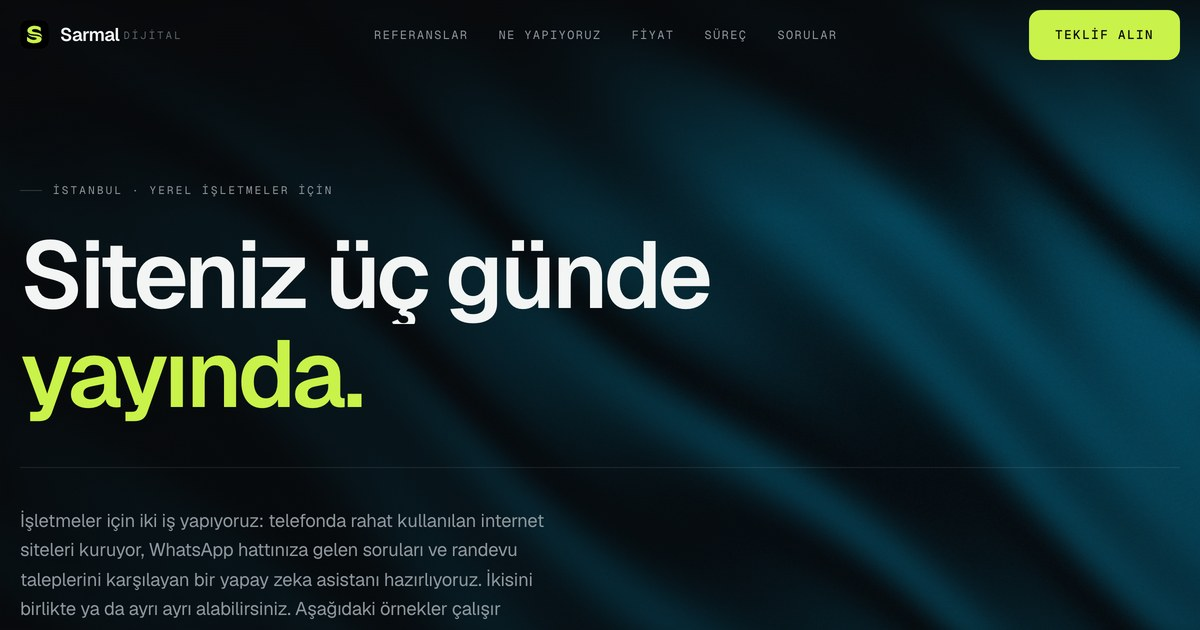
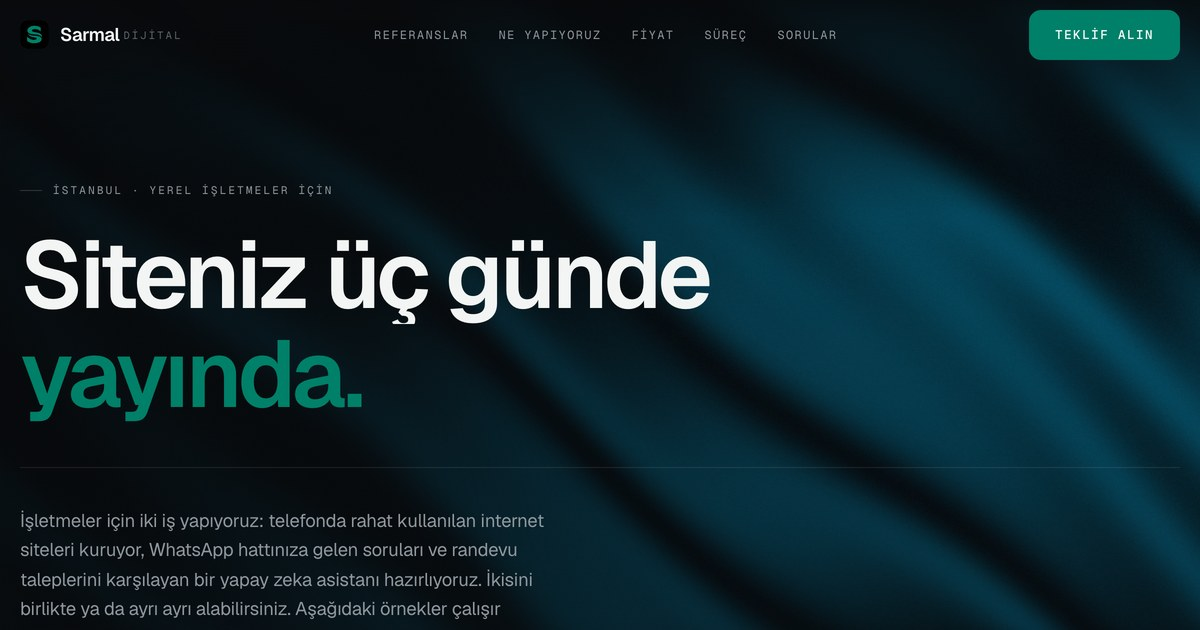
Marka rengi WhatsApp koyu yesiline cevrildi (#c9f24a -> #008069)
Asit yesili siteden tamamen kalkti: vurgu rengi, kisik ton, 12 yari
saydam kullanim, gomulu logo, logo.svg, logo-180.png ve og-kapak.jpg.

Dolu dugmelerin yazisi siyahtan beyaza dondu; koyu yesil zeminde siyah
yazi 2.5:1 kaliyordu, beyazla 4.89:1.

126 test gecti, 0 kaldi.

Claude-Session: https://claude.ai/code/session_01R7czcpEb5PSx5wUoPWUQCz

diff --git a/index.html b/index.html
@@ -35,8 +35,9 @@
   --sonuk:#8d979d;
   --cok-sonuk:#5c666c;          /* yalnizca dekoratif etiketler */
   --sonuk2:#7a848a;             /* bilgi tasiyan kucuk metin: koyu zeminde 4.5:1 ustu */
-  --vurgu:#c9f24a;
-  --vurgu-kis:#8fb327;
+  --vurgu:#008069;          /* WhatsApp ust cubuk yesili */
+  --dolu-yazi:#ffffff;      /* koyu yesil dolu dugme uzerindeki yazi */
+  --vurgu-kis:#005C4B;
   --w:1220px;
   /* Kose olcegi. Apple mantigi: oge buyudukce kose yumusar.
      Ic ice kural: ic ogenin yaricapi = dis yaricap - aradaki bosluk. */
@@ -123,11 +124,11 @@ section{padding:104px 0; position:relative}
 .dugme{
   display:inline-flex; align-items:center; gap:10px; padding:14px 25px;
   font-family:var(--mono); font-size:.78rem; letter-spacing:.12em; text-transform:uppercase;
-  border:1px solid var(--vurgu); background:var(--vurgu); color:#0a0c07; font-weight:500;
+  border:1px solid var(--vurgu); background:var(--vurgu); color:var(--dolu-yazi); font-weight:500;
   border-radius:var(--r-sm);
   transition:transform var(--sure-orta) var(--egri), box-shadow var(--sure-orta), background var(--sure-orta);
 }
-.dugme:hover{transform:translateY(calc(var(--hareket-az) * -1)); box-shadow:0 10px 32px rgba(201,242,74,.24)}
+.dugme:hover{transform:translateY(calc(var(--hareket-az) * -1)); box-shadow:0 10px 32px rgba(0,128,105,.24)}
 .dugme.bos{background:transparent; color:var(--metin); border-color:var(--cizgi-parlak)}
 .dugme.bos:hover{border-color:var(--vurgu); color:var(--vurgu); box-shadow:none}
 .dugme svg{transition:transform var(--sure-orta)}
@@ -351,7 +352,7 @@ header.yapisik{background:rgba(8,9,11,.86); backdrop-filter:blur(14px); border-b
   width:44px; height:44px; transform:translate(-50%,-50%);
 }
 .bilgi-dugme:hover{color:var(--vurgu); border-color:var(--vurgu); transform:scale(1.12)}
-.bilgi-dugme[aria-expanded="true"]{background:var(--vurgu); border-color:var(--vurgu); color:#0a0c07}
+.bilgi-dugme[aria-expanded="true"]{background:var(--vurgu); border-color:var(--vurgu); color:var(--dolu-yazi)}
 .bilgi-dugme:focus-visible{outline:2px solid var(--vurgu); outline-offset:3px}
 
 .bilgi-balon{
@@ -397,7 +398,7 @@ header.yapisik{background:rgba(8,9,11,.86); backdrop-filter:blur(14px); border-b
   transition:color var(--sure-hizli) var(--egri), border-color var(--sure-hizli) var(--egri),
              background var(--sure-hizli) var(--egri);
 }
-.paket-sec:hover{color:var(--vurgu); border-color:var(--vurgu); background:rgba(201,242,74,.06)}
+.paket-sec:hover{color:var(--vurgu); border-color:var(--vurgu); background:rgba(0,128,105,.06)}
 .paket-sec:focus-visible{outline:2px solid var(--vurgu); outline-offset:3px}
 .yillik{
   display:block; margin-top:7px; font-size:.7rem; letter-spacing:.02em;
@@ -443,8 +444,8 @@ header.yapisik{background:rgba(8,9,11,.86); backdrop-filter:blur(14px); border-b
 /* ---- peşinatsız vurgusu ---- */
 .pesinatsiz{
   display:grid; grid-template-columns:auto minmax(0,1fr) auto; gap:26px; align-items:center;
-  border:1px solid rgba(201,242,74,.34); border-radius:var(--r-lg);
-  background:linear-gradient(100deg, rgba(201,242,74,.11), rgba(201,242,74,.03) 46%, transparent);
+  border:1px solid rgba(0,128,105,.34); border-radius:var(--r-lg);
+  background:linear-gradient(100deg, rgba(0,128,105,.11), rgba(0,128,105,.03) 46%, transparent);
   padding:26px 30px; margin-top:40px;
   transition:transform var(--sure-yavas) var(--egri),
              box-shadow var(--sure-yavas) var(--egri),
@@ -455,13 +456,13 @@ header.yapisik{background:rgba(8,9,11,.86); backdrop-filter:blur(14px); border-b
 @media (hover: hover) and (pointer: fine){
   .pesinatsiz:hover{
     transform:translateY(calc(var(--hareket-orta) * -1));
-    border-color:rgba(201,242,74,.55);
-    background:linear-gradient(100deg, rgba(201,242,74,.16), rgba(201,242,74,.05) 46%, transparent);
+    border-color:rgba(0,128,105,.55);
+    background:linear-gradient(100deg, rgba(0,128,105,.16), rgba(0,128,105,.05) 46%, transparent);
     box-shadow:
       0 22px 46px rgba(0,0,0,.6),               /* zeminden ayıran uzak gölge */
       0 8px 18px rgba(0,0,0,.45),
-      0 0 0 1px rgba(201,242,74,.12),           /* çerçeveyi belirginleştiren hâle */
-      inset 0 1px 0 rgba(201,242,74,.16);       /* üst kenarda ince parlama */
+      0 0 0 1px rgba(0,128,105,.12),           /* çerçeveyi belirginleştiren hâle */
+      inset 0 1px 0 rgba(0,128,105,.16);       /* üst kenarda ince parlama */
   }
 }
 @media (prefers-reduced-motion: reduce){
@@ -650,7 +651,7 @@ html.js .sss-govde.acik{opacity:1}
   background-repeat:no-repeat; background-position:right 15px center; padding-right:38px;
 }
 .alan input:focus,.alan select:focus,.alan textarea:focus{
-  outline:none; border-color:var(--vurgu); box-shadow:0 0 0 3px rgba(201,242,74,.14);
+  outline:none; border-color:var(--vurgu); box-shadow:0 0 0 3px rgba(0,128,105,.14);
 }
 .alan .hata{display:none; font-size:.78rem; color:#e2685a; margin-top:7px}
 .alan.bozuk .hata{display:block}
@@ -671,7 +672,7 @@ html.js .sss-govde.acik{opacity:1}
 .form-tamam.gorun{display:block}
 .form-tamam .tik{
   width:52px; height:52px; margin:0 auto 18px; border-radius:50%;
-  background:rgba(201,242,74,.14); color:var(--vurgu); display:grid; place-items:center;
+  background:rgba(0,128,105,.14); color:var(--vurgu); display:grid; place-items:center;
 }
 .form-tamam b{display:block; font-size:1.2rem; font-weight:600; letter-spacing:-.022em; margin-bottom:9px}
 .form-tamam p{color:var(--sonuk); font-size:.92rem; margin:0 auto 22px; max-width:38ch; line-height:1.6}
@@ -804,7 +805,7 @@ body.balon-acik{overflow:hidden}
       <a class="marka" href="#">
         <svg class="im" viewBox="0 0 100 100" fill="none" aria-hidden="true">
           <rect width="100" height="100" rx="25" fill="#000" stroke="rgba(255,255,255,.10)"/>
-          <g transform="translate(20,20) scale(0.60)"><path d="M47.14,0.00 C50.30,0.09 51.42,-0.34 57.62,0.31 C63.82,0.96 62.40,0.77 67.80,2.16 C73.20,3.55 71.09,2.84 75.63,4.93 C80.17,7.01 79.95,7.16 82.93,9.12 C85.91,11.08 84.68,10.50 85.58,11.46 C86.48,12.43 85.88,6.57 85.94,12.35 C86.01,18.12 85.97,25.01 85.78,30.70 C85.59,36.40 85.31,31.33 85.31,31.33 C85.31,31.33 86.62,32.82 84.24,31.31 C81.85,29.80 82.02,29.10 77.36,26.30 C72.71,23.50 73.17,23.83 68.72,21.98 C64.27,20.12 66.65,21.00 62.54,20.12 C58.43,19.24 59.54,19.32 55.01,19.05 C50.48,18.77 50.93,18.92 47.45,19.20 C43.97,19.48 45.74,19.33 43.41,19.98 C41.09,20.63 41.42,20.58 39.69,21.38 C37.96,22.18 38.89,21.49 37.65,22.64 C36.42,23.79 36.29,23.68 35.57,25.21 C34.85,26.74 35.11,26.41 35.25,27.75 C35.40,29.08 35.28,28.56 36.05,29.67 C36.82,30.77 36.76,30.57 37.81,31.43 C38.85,32.29 37.35,31.55 39.54,32.54 C41.72,33.52 36.26,32.57 45.10,34.71 C53.95,36.84 59.41,37.38 69.03,39.64 C78.65,41.90 73.20,40.73 77.17,42.25 C81.14,43.78 79.58,43.15 82.28,44.73 C84.97,46.31 84.47,46.17 86.16,47.52 C87.84,48.88 86.71,47.80 87.88,49.25 C89.06,50.70 88.90,50.26 90.06,52.36 C91.23,54.46 91.07,54.33 91.77,56.24 C92.47,58.15 92.07,56.93 92.40,58.74 C92.72,60.55 92.74,60.17 92.86,62.27 C92.98,64.37 92.80,65.75 92.80,65.75 C92.80,65.75 92.25,65.72 92.25,65.72 C92.25,65.72 91.34,63.94 89.42,61.85 C87.50,59.75 87.99,60.37 85.85,58.74 C83.71,57.10 84.83,57.80 82.28,56.40 C79.72,55.01 80.61,55.33 77.32,54.08 C74.04,52.83 74.98,53.16 71.33,52.24 C67.68,51.31 69.91,51.74 65.15,51.00 C60.39,50.26 63.78,50.60 55.47,49.77 C47.17,48.94 45.92,49.30 37.46,48.23 C29.01,47.17 31.77,47.34 27.28,46.23 C22.80,45.12 25.30,45.74 22.52,44.54 C19.75,43.33 20.54,43.84 18.03,42.21 C15.52,40.59 15.98,40.85 14.15,39.11 C12.32,37.38 13.07,38.12 11.93,36.42 C10.80,34.73 11.12,35.24 10.38,33.47 C9.63,31.69 9.77,33.11 9.45,30.51 C9.12,27.91 8.88,28.13 9.29,24.79 C9.71,21.45 9.82,22.02 10.84,19.37 C11.86,16.72 11.49,17.82 12.70,15.96 C13.91,14.09 12.45,15.53 14.88,13.15 C17.31,10.77 18.05,10.16 20.79,8.02 C23.54,5.88 21.57,7.32 24.02,6.02 C26.47,4.72 25.03,5.13 28.97,3.70 C32.91,2.26 31.72,2.33 37.15,1.23 C42.59,0.12 44.11,0.38 47.10,0.01 C50.10,-0.36 43.98,-0.09 47.14,0.00 Z M12.42,43.78 C12.59,43.78 12.95,43.79 12.95,43.79 C12.95,43.79 15.07,46.24 16.92,48.02 C18.76,49.81 17.42,48.62 19.11,49.74 C20.79,50.86 19.84,50.51 22.52,51.76 C25.21,53.01 23.29,52.66 28.05,53.91 C32.81,55.15 30.20,54.94 38.38,55.91 C46.56,56.88 46.04,56.22 55.32,57.14 C64.59,58.06 62.42,57.65 69.30,58.99 C76.18,60.33 74.63,60.40 78.25,61.61 C81.86,62.81 79.12,61.75 81.36,63.01 C83.59,64.27 83.50,64.02 85.70,65.80 C87.89,67.59 87.22,66.83 88.68,68.95 C90.14,71.07 89.90,70.53 90.55,72.87 C91.21,75.21 91.23,73.77 90.86,76.75 C90.49,79.72 90.48,79.75 89.31,82.78 C88.15,85.81 88.88,84.42 86.96,86.85 C85.05,89.28 85.35,88.88 82.93,90.88 C80.51,92.88 81.96,91.89 78.90,93.52 C75.83,95.15 77.07,94.77 72.72,96.30 C68.36,97.83 69.19,97.60 64.38,98.62 C59.58,99.63 62.47,99.28 56.70,99.69 C50.93,100.11 51.01,100.09 45.14,100.00 C39.28,99.91 41.90,99.98 37.15,99.39 C32.41,98.79 34.17,99.20 29.32,98.00 C24.47,96.80 25.30,97.10 20.99,95.38 C16.68,93.67 17.98,94.10 14.96,92.29 C11.94,90.48 13.08,91.26 10.93,89.34 C8.77,87.42 8.92,87.50 7.79,85.89 C6.65,84.27 7.34,89.95 7.14,83.97 C6.95,77.99 7.09,71.69 7.14,65.96 C7.19,60.22 7.02,65.46 7.31,64.84 C7.59,64.23 8.08,63.91 8.08,63.91 C8.08,63.91 6.91,62.31 9.62,64.24 C12.33,66.16 12.60,67.12 17.11,70.32 C21.61,73.53 20.25,72.58 24.64,74.93 C29.02,77.29 27.43,76.60 31.74,78.18 C36.05,79.75 35.25,79.40 39.00,80.18 C42.74,80.97 41.40,80.61 44.22,80.80 C47.04,80.98 45.11,81.12 48.41,80.80 C51.70,80.47 52.52,80.27 55.20,79.71 C57.89,79.16 55.90,79.65 57.35,78.95 C58.81,78.24 58.71,78.41 60.04,77.36 C61.38,76.31 61.13,76.46 61.80,75.44 C62.47,74.43 62.14,74.72 62.29,73.98 C62.43,73.25 62.53,73.81 62.28,72.98 C62.03,72.15 62.05,72.09 61.46,71.22 C60.87,70.34 61.50,70.88 60.31,70.07 C59.12,69.27 59.83,69.40 57.51,68.52 C55.18,67.64 57.28,68.05 52.55,67.13 C47.83,66.20 46.85,66.36 41.76,65.44 C36.67,64.51 39.46,65.15 35.58,64.05 C31.70,62.94 32.43,63.27 28.82,61.74 C25.22,60.22 25.93,60.40 23.56,58.96 C21.19,57.51 23.02,58.99 20.91,56.93 C18.80,54.87 18.92,55.40 16.54,52.09 C14.17,48.79 14.23,48.40 12.99,45.91 C11.75,43.42 12.39,43.79 12.39,43.79 C12.39,43.79 12.26,43.78 12.42,43.78 Z" fill="#c9f24a"/></g>
+          <g transform="translate(20,20) scale(0.60)"><path d="M47.14,0.00 C50.30,0.09 51.42,-0.34 57.62,0.31 C63.82,0.96 62.40,0.77 67.80,2.16 C73.20,3.55 71.09,2.84 75.63,4.93 C80.17,7.01 79.95,7.16 82.93,9.12 C85.91,11.08 84.68,10.50 85.58,11.46 C86.48,12.43 85.88,6.57 85.94,12.35 C86.01,18.12 85.97,25.01 85.78,30.70 C85.59,36.40 85.31,31.33 85.31,31.33 C85.31,31.33 86.62,32.82 84.24,31.31 C81.85,29.80 82.02,29.10 77.36,26.30 C72.71,23.50 73.17,23.83 68.72,21.98 C64.27,20.12 66.65,21.00 62.54,20.12 C58.43,19.24 59.54,19.32 55.01,19.05 C50.48,18.77 50.93,18.92 47.45,19.20 C43.97,19.48 45.74,19.33 43.41,19.98 C41.09,20.63 41.42,20.58 39.69,21.38 C37.96,22.18 38.89,21.49 37.65,22.64 C36.42,23.79 36.29,23.68 35.57,25.21 C34.85,26.74 35.11,26.41 35.25,27.75 C35.40,29.08 35.28,28.56 36.05,29.67 C36.82,30.77 36.76,30.57 37.81,31.43 C38.85,32.29 37.35,31.55 39.54,32.54 C41.72,33.52 36.26,32.57 45.10,34.71 C53.95,36.84 59.41,37.38 69.03,39.64 C78.65,41.90 73.20,40.73 77.17,42.25 C81.14,43.78 79.58,43.15 82.28,44.73 C84.97,46.31 84.47,46.17 86.16,47.52 C87.84,48.88 86.71,47.80 87.88,49.25 C89.06,50.70 88.90,50.26 90.06,52.36 C91.23,54.46 91.07,54.33 91.77,56.24 C92.47,58.15 92.07,56.93 92.40,58.74 C92.72,60.55 92.74,60.17 92.86,62.27 C92.98,64.37 92.80,65.75 92.80,65.75 C92.80,65.75 92.25,65.72 92.25,65.72 C92.25,65.72 91.34,63.94 89.42,61.85 C87.50,59.75 87.99,60.37 85.85,58.74 C83.71,57.10 84.83,57.80 82.28,56.40 C79.72,55.01 80.61,55.33 77.32,54.08 C74.04,52.83 74.98,53.16 71.33,52.24 C67.68,51.31 69.91,51.74 65.15,51.00 C60.39,50.26 63.78,50.60 55.47,49.77 C47.17,48.94 45.92,49.30 37.46,48.23 C29.01,47.17 31.77,47.34 27.28,46.23 C22.80,45.12 25.30,45.74 22.52,44.54 C19.75,43.33 20.54,43.84 18.03,42.21 C15.52,40.59 15.98,40.85 14.15,39.11 C12.32,37.38 13.07,38.12 11.93,36.42 C10.80,34.73 11.12,35.24 10.38,33.47 C9.63,31.69 9.77,33.11 9.45,30.51 C9.12,27.91 8.88,28.13 9.29,24.79 C9.71,21.45 9.82,22.02 10.84,19.37 C11.86,16.72 11.49,17.82 12.70,15.96 C13.91,14.09 12.45,15.53 14.88,13.15 C17.31,10.77 18.05,10.16 20.79,8.02 C23.54,5.88 21.57,7.32 24.02,6.02 C26.47,4.72 25.03,5.13 28.97,3.70 C32.91,2.26 31.72,2.33 37.15,1.23 C42.59,0.12 44.11,0.38 47.10,0.01 C50.10,-0.36 43.98,-0.09 47.14,0.00 Z M12.42,43.78 C12.59,43.78 12.95,43.79 12.95,43.79 C12.95,43.79 15.07,46.24 16.92,48.02 C18.76,49.81 17.42,48.62 19.11,49.74 C20.79,50.86 19.84,50.51 22.52,51.76 C25.21,53.01 23.29,52.66 28.05,53.91 C32.81,55.15 30.20,54.94 38.38,55.91 C46.56,56.88 46.04,56.22 55.32,57.14 C64.59,58.06 62.42,57.65 69.30,58.99 C76.18,60.33 74.63,60.40 78.25,61.61 C81.86,62.81 79.12,61.75 81.36,63.01 C83.59,64.27 83.50,64.02 85.70,65.80 C87.89,67.59 87.22,66.83 88.68,68.95 C90.14,71.07 89.90,70.53 90.55,72.87 C91.21,75.21 91.23,73.77 90.86,76.75 C90.49,79.72 90.48,79.75 89.31,82.78 C88.15,85.81 88.88,84.42 86.96,86.85 C85.05,89.28 85.35,88.88 82.93,90.88 C80.51,92.88 81.96,91.89 78.90,93.52 C75.83,95.15 77.07,94.77 72.72,96.30 C68.36,97.83 69.19,97.60 64.38,98.62 C59.58,99.63 62.47,99.28 56.70,99.69 C50.93,100.11 51.01,100.09 45.14,100.00 C39.28,99.91 41.90,99.98 37.15,99.39 C32.41,98.79 34.17,99.20 29.32,98.00 C24.47,96.80 25.30,97.10 20.99,95.38 C16.68,93.67 17.98,94.10 14.96,92.29 C11.94,90.48 13.08,91.26 10.93,89.34 C8.77,87.42 8.92,87.50 7.79,85.89 C6.65,84.27 7.34,89.95 7.14,83.97 C6.95,77.99 7.09,71.69 7.14,65.96 C7.19,60.22 7.02,65.46 7.31,64.84 C7.59,64.23 8.08,63.91 8.08,63.91 C8.08,63.91 6.91,62.31 9.62,64.24 C12.33,66.16 12.60,67.12 17.11,70.32 C21.61,73.53 20.25,72.58 24.64,74.93 C29.02,77.29 27.43,76.60 31.74,78.18 C36.05,79.75 35.25,79.40 39.00,80.18 C42.74,80.97 41.40,80.61 44.22,80.80 C47.04,80.98 45.11,81.12 48.41,80.80 C51.70,80.47 52.52,80.27 55.20,79.71 C57.89,79.16 55.90,79.65 57.35,78.95 C58.81,78.24 58.71,78.41 60.04,77.36 C61.38,76.31 61.13,76.46 61.80,75.44 C62.47,74.43 62.14,74.72 62.29,73.98 C62.43,73.25 62.53,73.81 62.28,72.98 C62.03,72.15 62.05,72.09 61.46,71.22 C60.87,70.34 61.50,70.88 60.31,70.07 C59.12,69.27 59.83,69.40 57.51,68.52 C55.18,67.64 57.28,68.05 52.55,67.13 C47.83,66.20 46.85,66.36 41.76,65.44 C36.67,64.51 39.46,65.15 35.58,64.05 C31.70,62.94 32.43,63.27 28.82,61.74 C25.22,60.22 25.93,60.40 23.56,58.96 C21.19,57.51 23.02,58.99 20.91,56.93 C18.80,54.87 18.92,55.40 16.54,52.09 C14.17,48.79 14.23,48.40 12.99,45.91 C11.75,43.42 12.39,43.79 12.39,43.79 C12.39,43.79 12.26,43.78 12.42,43.78 Z" fill="#008069"/></g>
         </svg>
         <span><span data-marka="ad">Sarmal</span> <span class="marka-ek">Dijital</span></span>
       </a>
